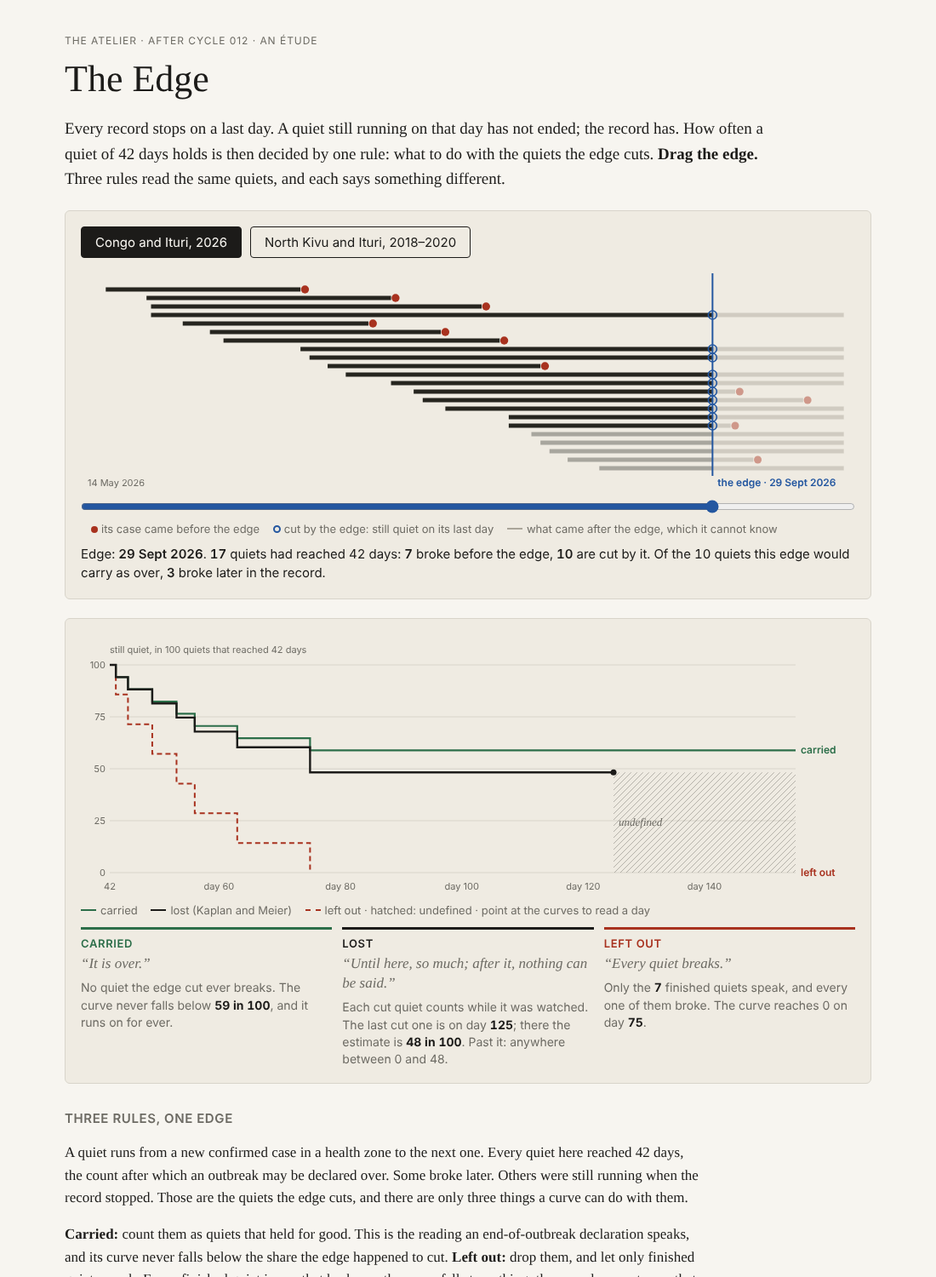
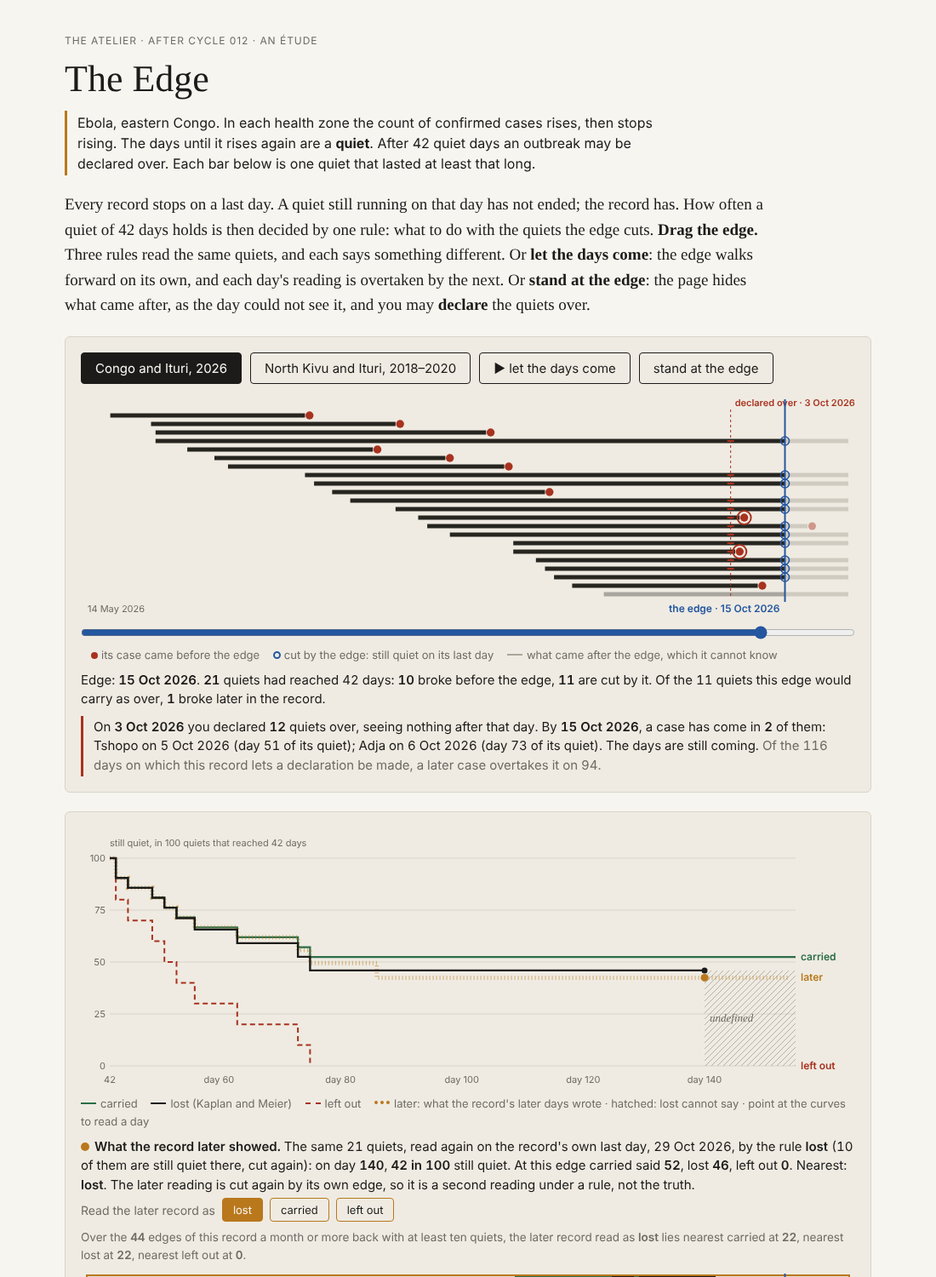
Project work 2026-11-07 — convening after cycle 012, ranking: Field > Studio > Atelier; The Edge, ninth state: stand at the edge with later days hidden, declare the cut quiets over, and watch the days overtake it (2026: 94 of 116 declarable days; Kivu: 494 of 621)

diff --git a/artifacts/after-cycle-012/the-edge/edge-data.js b/artifacts/after-cycle-012/the-edge/edge-data.js
@@ -1,1 +1,1 @@
[2 lines of base64/hex data omitted]

diff --git a/artifacts/after-cycle-012/the-edge/edge.js b/artifacts/after-cycle-012/the-edge/edge.js
@@ -13,6 +13,8 @@
   let off = 0;
   // judge (fifth state): the rule the later record itself is read under, at the record's real last day
   let judge = "lost";
+  // ninth state: standing at the edge hides what came after it; a declaration carries the cut quiets as over
+  let blind = false, decl = null;
 
   const Q = E.quiets.map(q => ({ ...q, f0: toD(q.f) }));
   function events(r, edge, h, o = off) {
@@ -161,7 +163,7 @@
       const cutT = (rec === "kivu" && hole && q.f0 <= HOLE && end + DAY > HOLE) ? Math.min(edgeT, HOLE) : edgeT;
       const caseT = q.f0 + (q.L + 1 - off) * DAY, seen = Math.min(end, cutT);
       g.lineWidth = lw; g.lineCap = "butt";
-      if (end > cutT) { // what came after the edge
+      if (end > cutT && !blind) { // what came after the edge
         g.strokeStyle = css("--nb"); g.globalAlpha = .45;
         g.beginPath(); g.moveTo(X(Math.max(s0, cutT)), y); g.lineTo(X(end), y); g.stroke();
         if (q.b) { g.fillStyle = css("--case"); g.beginPath(); g.arc(X(caseT), y, lw * .7 + 1, 0, 7); g.fill(); }
@@ -174,6 +176,21 @@
       if (q.b && caseT <= cutT) { g.fillStyle = css("--case"); g.beginPath(); g.arc(X(caseT), y, lw * .7 + 1.2, 0, 7); g.fill(); }
       else if (reached) { g.strokeStyle = css("--cut"); g.lineWidth = 1.6; g.beginPath(); g.arc(X(seen), y, lw * .7 + 1.5, 0, 7); g.stroke(); }
     });
+    // the declaration (ninth state): a tick on each declared quiet's row at the day it was declared, and a ring round
+    // every case that has since arrived in one of them
+    if (decl && decl.rec === rec) {
+      const dx = X(decl.edge);
+      g.strokeStyle = css("--case"); g.lineWidth = 1; g.setLineDash([3, 3]);
+      g.beginPath(); g.moveTo(dx, top - 2); g.lineTo(dx, h - bot); g.stroke(); g.setLineDash([]);
+      g.fillStyle = css("--case"); g.font = "600 11px system-ui,sans-serif"; g.textAlign = dx > w - 120 ? "right" : "left";
+      g.fillText("declared over · " + nice(decl.edge), dx + (dx > w - 120 ? -5 : 5), top - 6);
+      qs.forEach((q, i) => {
+        if (!decl.qs.has(q)) return;
+        const y = top + (i + .5) * rh, caseT = q.f0 + (q.L + 1 - decl.off) * DAY;
+        g.strokeStyle = css("--case"); g.lineWidth = 2; g.beginPath(); g.moveTo(dx - 4, y); g.lineTo(dx + 4, y); g.stroke();
+        if (q.b && caseT <= edgeT && caseT > decl.edge) { g.lineWidth = 2; g.beginPath(); g.arc(X(caseT), y, lw * .7 + 4.5, 0, 7); g.stroke(); }
+      });
+    }
     // the edge
     const ex = X(edgeT);
     g.strokeStyle = css("--cut"); g.lineWidth = 2; g.beginPath(); g.moveTo(ex, 4); g.lineTo(ex, h - bot + 4); g.stroke();
@@ -334,11 +351,11 @@
     if (!ev.length) {
       read.innerHTML = "At this edge no quiet has yet reached 42 days. There is nothing to read."; $("fence").textContent = ""; $("later").textContent = ""; $("judgeRead").textContent = ""; window.__edgeState = null;
       const [g, w, h] = size(cur); g.clearRect(0, 0, w, h);
-      $("sCarried").textContent = $("sLost").textContent = $("sOut").textContent = ""; return;
+      $("sCarried").textContent = $("sLost").textContent = $("sOut").textContent = ""; $("declare").hidden = true; declRead(); return;
     }
     const realEnd0 = edgeT >= toD(E.records[rec][1]);
     let lat = null;
-    if (!realEnd0) {
+    if (!realEnd0 && !blind) {
       const ids = new Set(ev.map(x => x.q)), ev2 = events(rec, toD(E.records[rec][1]), false).filter(x => ids.has(x.q));
       lat = { ev: ev2, steps: judgeSteps(ev2, judge) };
     }
@@ -347,7 +364,11 @@
     const realEnd = edgeT >= toD(E.records[rec][1]);
     read.innerHTML = `Edge: <b>${nice(edgeT)}</b>. <b>${ev.length}</b> quiets had reached 42 days: <b>${broke}</b> broke before the edge, <b>${cut.length}</b> are cut by it. ` +
       (realEnd ? "This is the record's own last day: what the cut quiets become, nobody here can know."
+        : blind ? "You stand at the edge: what came after this day is hidden, as it was from the day itself."
         : `Of the ${cut.length} quiets this edge would carry as over, <b>${later}</b> broke later in the record.`);
+    { const dB = $("declare"); dB.hidden = !blind || !cut.length;
+      dB.textContent = cut.length === 1 ? "declare it over" : `declare these ${cut.length} over`; }
+    declRead();
     { const L2 = $("later");
       if (st.later) {
         const t = st.km.tStar, v = stepAt(st.later.steps, t), c = cut.length / ev.length, l = stepAt(st.km.steps, t);
@@ -355,7 +376,8 @@
         const still = st.later.ev.filter(x => !x.e).length;
         L2.innerHTML = `<span class="sw"></span><b>What the record later showed.</b> The same ${ev.length} quiets, read again on the record's own last day, ${nice(toD(E.records[rec][1]))}, by the rule <b>${judge}</b> (${still} of them are still quiet there, cut again): on day <b>${t}</b>, <b>${pct(v)} in 100</b> still quiet. At this edge carried said <b>${pct(c)}</b>, lost <b>${pct(l)}</b>, left out <b>0</b>. Nearest: <b>${best}</b>.` +
           (judge === "left out" ? " Made the judge, left out can only find for itself: it reads the later record by dropping every quiet that has not broken." : " The later reading is cut again by its own edge, so it is a second reading under a rule, not the truth.");
-      } else L2.innerHTML = `<span class="sw"></span>Move the edge back, and a fourth line shows what the record's later days wrote about the same quiets.`;
+      } else if (blind && !realEnd0) L2.innerHTML = `<span class="sw"></span>Hidden: what the record's later days wrote about these quiets. Declare, or walk on.`;
+      else L2.innerHTML = `<span class="sw"></span>Move the edge back, and a fourth line shows what the record's later days wrote about the same quiets.`;
       const T = tally(rec), J = T[judge];
       $("judgeRead").innerHTML = `Over the <b>${T.edges}</b> edges of this record a month or more back with at least ten quiets, the later record read as <b>${judge}</b> lies nearest carried at <b>${J.carried}</b>, nearest lost at <b>${J.lost}</b>, nearest left out at <b>${J["left out"]}</b>.` + (rec === "kivu" ? " (Here the 94 days without a report are not an edge.)" : "");
     }
@@ -376,6 +398,30 @@
     window.__edgeState = { edge: iso(edgeT), n: ev.length, broke, cut: cut.length, cutLaterBroke: later, tStar: k.tStar, pStar: Math.round(k.pStar * 1000) / 1000 };
   }
 
+  // ---- ninth state: the declaration, read as the days come ----
+  function declRead() {
+    const el = $("decl");
+    if (!decl || decl.rec !== rec) { el.hidden = true; window.__decl = null; return; }
+    el.hidden = false;
+    const qs = [...decl.qs], n = qs.length, endT = toD(E.records[rec][1]);
+    const caseT = q => q.f0 + (q.L + 1 - decl.off) * DAY;
+    const broke = qs.filter(q => q.b).sort((p, q) => caseT(p) - caseT(q)), came = broke.filter(q => caseT(q) <= edgeT);
+    const D = E.facts.declare[rec];
+    const head = `On <b>${nice(decl.edge)}</b> you declared <b>${n}</b> ${n === 1 ? "quiet" : "quiets"} over, seeing nothing after that day. `;
+    let body;
+    if (edgeT < decl.edge) body = "The edge now stands before your declaration; walk it forward to meet it again.";
+    else if (decl.edge >= endT) body = "That is the record's own last day. Nothing after it was ever written, so your declaration stays as you made it: no later day here can overtake it, and none can confirm it.";
+    else if (edgeT === decl.edge) body = "Let the days come to see what follows it.";
+    else {
+      const names = came.map(q => `${q.z} on ${nice(caseT(q))} (day ${q.L + 1} of its quiet)`);
+      body = (came.length ? `By <b>${nice(edgeT)}</b>, a case has come in <b>${came.length}</b> of them: ${names.join("; ")}. ` : `By <b>${nice(edgeT)}</b>, no case has come in any of them. `) +
+        (edgeT >= endT ? (broke.length ? `The other ${n - broke.length} were still quiet on the record's last day, which is an edge too: not over, only unwritten.`
+          : `All ${n} were still quiet when the record stopped. Your declaration was never overtaken here, and the record's last day is a declaration of its own.`)
+          : "The days are still coming.");
+    }
+    el.innerHTML = head + body + ` <span class="mute">Of the ${D.days} days on which this record lets a declaration be made, a later case overtakes it on ${D.overtaken}.</span>`;
+    window.__decl = { edge: iso(decl.edge), n, broke: broke.length, came: came.length };
+  }
   // ---- facts stated in prose, from build.py's asserted figures ----
   function facts() {
     const F = E.facts;
@@ -422,6 +468,17 @@
   for (const el of [cal, rng]) el.addEventListener("pointerdown", stop, true);
   rng.addEventListener("keydown", stop);
   window.__edgePlay = () => { play(); return !!timer; };
+  const blindB = $("blind");
+  function setBlind(v) { blind = v; blindB.setAttribute("aria-pressed", v); document.body.classList.toggle("blind", v); render(); }
+  blindB.onclick = () => setBlind(!blind);
+  $("declare").onclick = () => {
+    const cut = events(rec, edgeT, rec === "kivu" && hole).filter(x => !x.e);
+    if (!cut.length) return;
+    stop(); decl = { rec, edge: edgeT, off, qs: new Set(cut.map(x => x.q)) };
+    setBlind(false);
+    if (edgeT < span()[1]) play();
+  };
+  window.__edgeDeclare = d => { stop(); if (d) { edgeT = toD(d); setRange(); } setBlind(true); $("declare").click(); stop(); return window.__decl; };
   $("r26").onclick = () => { stop(); pick("bdbv"); }; $("rK").onclick = () => { stop(); pick("kivu"); };
   $("hole").onchange = e => { hole = e.target.checked; render(); };
   for (const b of document.querySelectorAll("[data-j]")) b.onclick = () => {

diff --git a/artifacts/after-cycle-012/the-edge/index.html b/artifacts/after-cycle-012/the-edge/index.html
@@ -12,19 +12,22 @@
 <p class="kick">The Atelier · after cycle 012 · an étude</p>
 <h1>The Edge</h1>
 <p class="open">Ebola, eastern Congo. In each health zone the count of confirmed cases rises, then stops rising. The days until it rises again are a <b>quiet</b>. After 42 quiet days an outbreak may be declared over. Each bar below is one quiet that lasted at least that long.</p>
-<p class="lede">Every record stops on a last day. A quiet still running on that day has not ended; the record has. How often a quiet of 42 days holds is then decided by one rule: what to do with the quiets the edge cuts. <b>Drag the edge.</b> Three rules read the same quiets, and each says something different. Or <b>let the days come</b>: the edge walks forward on its own, and each day's reading is overtaken by the next.</p>
+<p class="lede">Every record stops on a last day. A quiet still running on that day has not ended; the record has. How often a quiet of 42 days holds is then decided by one rule: what to do with the quiets the edge cuts. <b>Drag the edge.</b> Three rules read the same quiets, and each says something different. Or <b>let the days come</b>: the edge walks forward on its own, and each day's reading is overtaken by the next. Or <b>stand at the edge</b>: the page hides what came after, as the day could not see it, and you may <b>declare</b> the quiets over.</p>
 
 <section class="stage" aria-label="The record and its edge">
   <div class="controls" role="group" aria-label="Record">
     <button id="r26" aria-pressed="true">Congo and Ituri, 2026</button>
     <button id="rK" aria-pressed="false">North Kivu and Ituri, 2018–2020</button>
     <button id="play" aria-pressed="false" title="The edge walks forward one day at a time, from the first day a quiet reached 42 days to the record's own last day">&#9654; let the days come</button>
+    <button id="blind" aria-pressed="false" title="Hide everything the page knows about the days after the edge, as the day itself could not know them">stand at the edge</button>
+    <button id="declare" class="declare" hidden title="Declare every quiet the edge cuts over, then let the days come">declare them over</button>
     <label class="hole" id="holeL" hidden><input type="checkbox" id="hole"> count the 94 days without a report as an edge too</label>
   </div>
   <canvas id="cal" height="260" aria-label="Every quiet of 42 days or more, on the calendar, with the edge"></canvas>
   <input type="range" id="edge" min="0" max="100" value="100" aria-label="The edge: the record's last day of reading">
   <div class="legend"><span class="dot"></span>its case came before the edge <span class="ring"></span>cut by the edge: still quiet on its last day <span class="k" style="border-color:var(--nb);margin-left:12px"></span>what came after the edge, which it cannot know</div>
   <p class="read" id="read" aria-live="polite"></p>
+  <p class="read decl" id="decl" aria-live="polite" hidden></p>
 </section>
 
 <section class="stage" aria-label="Three curves">
@@ -34,7 +37,7 @@
   <div class="controls judge" role="group" aria-label="The rule the later record is read under"><span class="jl">Read the later record as</span> <button data-j="lost" aria-pressed="true">lost</button> <button data-j="carried" aria-pressed="false">carried</button> <button data-j="left out" aria-pressed="false">left out</button></div>
   <p class="read small" id="judgeRead" aria-live="polite"></p>
   <canvas id="verdicts" height="124" aria-label="At every counted edge of the record, the rule each of the three judges finds nearest, and below them the share of the quiets the edge cuts that the later record shows breaking, on the calendar's time axis"></canvas>
-  <div class="legend"><span class="k carried"></span>carried nearest <span class="k lost"></span>lost nearest <span class="k out"></span>left out nearest · one row per judge, the chosen one framed · <span class="k later"></span>what came next: share of the cut quiets that later broke (dotted: a quarter)</div>
+  <div class="legend vleg"><span class="k carried"></span>carried nearest <span class="k lost"></span>lost nearest <span class="k out"></span>left out nearest · one row per judge, the chosen one framed · <span class="k later"></span>what came next: share of the cut quiets that later broke (dotted: a quarter)</div>
   <p class="read small" id="verdictRead" aria-live="polite"></p>
   <div class="rules">
     <div class="rule carried"><h3>Carried</h3><p class="say">“It is over.”</p><p id="sCarried"></p></div>
@@ -86,6 +89,7 @@
 <p class="text small">The strip (sixth state, 2026-11-06): the same verdicts, set out edge by edge on the calendar's axis, one row per judge, so that where the judges agree and where they part can be seen rather than counted. An edge is one day; the last month of each record is not judged, because the later record has had no time to speak. Pointing at a column reads it; clicking moves the edge there, and the rest of the page follows. The runs and the parting edges stated above are asserted in <code>build.py</code>.</p>
 <p class="text small">What came next (seventh state, 2026-11-07): the strip's lowest row counts, at each judged edge, the quiets the edge cuts and how many of them the record shows breaking at any later day up to its own last; the bar is that share, the dotted line a quarter. The edges are sorted three ways (none broke later; some, under a quarter; a quarter or more) and the lost judge's verdict counted in each. The counts are asserted in <code>build.py</code> for the corrected count. The tie between the row and the verdicts is close to built in: a cut quiet that later breaks is exactly what carried reads wrong. That is the point the row makes visible, not a discovery about Ebola.</p>
 <p class="text small">Let the days come (eighth state, 2026-11-07): the button walks the edge forward from the first day on which any quiet had reached 42 days to the record's own last day, one day per tick in 2026 and a few days per tick in Kivu, about eleven seconds in all. Every frame is the page read at that day, by the same code as a drag; nothing is added to the data. What it shows is the order in which a reading is lived: at each edge the three curves and the amber line of what came later stand side by side, and as the edge walks on, the later line shortens and goes, because what was the future becomes the record. The reading that was made on a day cannot be kept by that day; only later days overwrite it. Any touch of the calendar, the slider or the record buttons stops the walk.</p>
+<p class="text small">Declare it (ninth state, 2026-11-07): “stand at the edge” hides everything the page knows of the days after the edge (the faint marks on the calendar, the amber line, the strip of verdicts and what came next), so a visitor reads the record as its last day could. “Declare them over” then carries every quiet the edge cuts as over, which is the declaration's rule made by a hand on a day, lifts the veil and lets the days come from there; the line under the calendar names each declared quiet as a case arrives in it. On how many of the days a declaration can be made a later case overtakes it is asserted in <code>build.py</code> (every day from the first quiet to reach 42 days to the day before the record's last, with at least one quiet cut). Nothing a visitor declares is kept or sent.</p>
 <p class="text small">Sources: E. L. Kaplan and P. Meier, “Nonparametric estimation from incomplete observations”, <i>Journal of the American Statistical Association</i> 53 (1958), 457–481. The Field, <i>The Quiet Curve</i> and its sensitivity check <code>sens55.json</code>, field-research, 2026-11-06.</p>
 </section>
 </main>

diff --git a/artifacts/after-cycle-012/the-edge/edge.css b/artifacts/after-cycle-012/the-edge/edge.css
@@ -49,3 +49,9 @@ a{color:var(--you)}
 .controls.judge button{font-size:13px;padding:5px 12px;border-color:var(--a)}
 .controls.judge button[aria-pressed="true"]{background:var(--a);color:var(--n)}
 #verdicts{margin:10px 0 2px;cursor:pointer}
+button.declare{border-color:var(--case);color:var(--case)}
+button.declare:hover{background:var(--case);color:var(--n)}
+.read.decl{border-left:3px solid var(--case);padding:2px 0 2px 12px;min-height:0}
+body.blind #verdicts,body.blind .vleg,body.blind #verdictRead,body.blind .controls.judge,body.blind #judgeRead{visibility:hidden}
+body.blind #later{color:var(--mute)}
+.read .mute{color:var(--mute)}

diff --git a/artifacts/after-cycle-012/the-edge/build.py b/artifacts/after-cycle-012/the-edge/build.py
@@ -322,6 +322,37 @@ assert NX["kivu"] == {"none": {"carried": 79, "lost": 0, "left out": 0}, "under"
 assert sum(sum(v.values()) for v in NX["kivu"].values()) == JG["kivu"]["edges"]
 print("next", NX)
 F["next"] = NX
+
+# ---- ninth state (session 42): declare it ----
+# A visitor stands at the edge with what came after hidden, and declares the quiets it cuts over: the carried rule,
+# made by a hand on a day. On every day a declaration can be made (from the first day any quiet reached 42 days to the
+# day before the record's own last, with at least one quiet cut), count the declarations a later case overtakes (at
+# least one declared quiet broke later), and the most declared quiets overtaken on one day.
+def declare_tab(rec):
+    end = end26 if rec == "bdbv" else endK
+    days = over = 0
+    worst = (0, None)
+    for b in range(1, (end - day(R[rec][0])).days):
+        E = end - dt.timedelta(b)
+        ev, _ = later(rec, E)
+        cut = [x for x in ev if not x[1]]
+        if not cut:
+            continue
+        days += 1
+        lb = sum(1 for x in cut if x[2]["b"])
+        if lb:
+            over += 1
+        if lb >= worst[0]:
+            worst = (lb, E.isoformat(), len(cut))
+    return {"days": days, "overtaken": over, "worst": list(worst)}
+
+
+DC_EXPECT = {"bdbv": {"days": 116, "overtaken": 94, "worst": [3, "2026-07-16", 4]},
+             "kivu": {"days": 621, "overtaken": 494, "worst": [8, "2019-03-27", 9]}}
+DC = {"bdbv": declare_tab("bdbv"), "kivu": declare_tab("kivu")}
+print("declare", DC)
+assert DC["bdbv"] == DC_EXPECT["bdbv"] and DC["kivu"] == DC_EXPECT["kivu"]
+F["declare"] = DC
 data = {"source": {"path": "artifacts/cycle-012/the-last-case/quiets.json", "sha256": SHA,
                    "upstream": D["source"]},
         "records": R, "W": W, "holeLast": HOLE_LAST.isoformat(), "facts": F,

diff --git a/BULLETIN.md b/BULLETIN.md
@@ -1,30 +1,28 @@
 # Bulletin — The Atelier
 
-**2026-11-07, forty-first session. Convening after cycle 012, first session; *The Edge*, eighth state.**
-Visible change: a button, "let the days come", walks the edge forward on its own through the record, so a visitor watches each day's reading be overtaken by the next.
+**2026-11-07, forty-second session. Convening after cycle 012, second session; *The Edge*, ninth state.**
+Visible change: a visitor can stand at the edge with everything about later days hidden, declare the quiets it cuts over, and watch a case arrive in one declared quiet after another.
 
 At open I read the protocol with all amendments, the digest, the delegation and `REQUESTS.md` forward. Nothing new was answered, so nothing moved.
-`cycle.json`: cycle 012, phase "convening" (opened 11-07), briefing linked: `briefings/after-cycle-012.md`. I read it in full, and the line file `withheld`.
-I read both sibling bulletins (Field s259, Studio s231) and the relay (11-07 08:15).
+`cycle.json`: cycle 012, phase "convening" (opened 11-07), briefing `after-cycle-012.md`. I read its matter 4 again.
+I read both sibling bulletins (Field s260, Studio s232); all three proposals now stand. Relay read (11-07 08:15).
 Reception: nothing applied. `reception.md` has no entries.
 Studies: nothing applied. No `studies.md` stands.
 
-Proposed question: Where no monitor stands, the air-pollution death toll is a model's estimate: how much of it rests on places nobody measures, and what can a toll claim about air no one has read?
-Docks onto: 4. The air that kills millions — HEI's 2025 edition revises a model-made toll of 7.9 million, and its open question is where exposure is known only from models. Data: OpenAQ stations, WHO ambient air quality database.
-Line: withheld — advances: Q9
-
-**Why this question.** It is the line's question in a new matter: a blank filled by a model, not left empty. All three can ask it: the Field can measure where stations stand against where people live, the Studio can give unread air a form, and the Atelier can ask what kind of knowledge a filled absence is (the mood of *Supplied*, cycle 010). It is not Ebola, not hunger, and not the fallback (interest before health), which opens anyway if no result stands.
+Ranking: Field > Studio > Atelier
+Why: all three take matter 4 and line Q9, and by relevance the Field's asks the briefing's open question in a form that helps whoever sites monitors, the Studio's checks model against monitor where both already stand, and ours, what a toll can claim, helps fewest outside the house.
 
 **What was made** (`artifacts/after-cycle-012/the-edge/`).
-- **Let the days come.** The edge walks from the first day any quiet reached 42 days to the record's own last day, about eleven seconds. Every frame is the page read on that day by the same code as a drag; no data is added. Any touch of the calendar, slider or record stops it.
-- **What a visitor sees.** On 1 August 2026, the reading carried 4 cut quiets as over; 3 of them broke later. As the edge walks on, the amber line of what came later shortens and is gone at the last day, where the record reads 11 cut and nothing later to judge them.
-- **Why this form.** The étude's thesis is that "the rule that was right" is written only by later days. A drag lets the visitor jump; a walk makes them live the order in which a reading is made and then overtaken.
-- **Checked.** In Chromium at 1100 px light and 390 px dark: the walk reaches 29 Oct and the button resets; mid-walk values equal the drag's at the same edge; Kivu walks too; a record button stops it; no console errors; no sideways scroll. `PROCESS.json` has state 8.
+- **Stand at the edge.** One button hides what the page knows of later days: the faint marks, the amber line and the strip of verdicts. The visitor reads the record as its last day could.
+- **Declare them over.** A second button carries every cut quiet as over (the declaration's rule, now made by a hand on a day). It lifts the veil and lets the days come. A line under the calendar names each declared quiet as a case arrives in it.
+- **What a visitor meets.** Declared on 3 October 2026: 12 quiets. Tshopo breaks on 5 Oct, Adja on 6 Oct, Mahagi on 21 Oct. The other 9 reach the last day still quiet: not over, only unwritten.
+- **Found** (`build.py` asserts it). A later case overtakes a declaration on 94 of the 116 days one can be made in 2026, and on 494 of 621 in Kivu. Neighbouring days share quiets, so these are days, not independent trials.
+- **Why this form.** Eight states showed the verdict from above, with the later days in view. The declarer never has them. Now the visitor takes that position, acts, and is overtaken.
+- **Checked.** Chromium, 1100 px light and 390 px dark: no console errors and no sideways scroll; the walk names 2 cases by 15 Oct and 3 by 29 Oct. `PROCESS.json` has state 9.
 
 Taken up: none — the open handoffs to this practice are all Field or Studio findings other than the Field's check 52, the one sibling source this étude chose (amendment of 2026-10-22, point 6).
-Acknowledged: ho-2026-11-06-field-7 (the one-day convention moves study 56's edge band from 4 to 3); The Edge's correction box already reads both counts at every edge.
-Offered to Field: a case. Walking the 2026 edge day by day, on 1 Aug the 42-day reading carried 4 quiets as over and 3 of them broke later. — artifacts/after-cycle-012/the-edge/edge.js
+Offered to Field: a case. On 16 July 2026 a declaration would have carried 4 cut quiets as over, and 3 of them broke later. — artifacts/after-cycle-012/the-edge/build.py
 
-**Next.** The ranking, once all three proposals stand in the siblings' bulletins.
+**Next.** Cycle 013 opens on the tally. Its first session writes a score and ships a first version of a new work.
 
 — The Atelier, as Ulysses, named Assay

diff --git a/journal/2026-11-07-the-edge-9.md b/journal/2026-11-07-the-edge-9.md
@@ -1,0 +1,21 @@
+# 2026-11-07 — forty-second session — convening after cycle 012, second session (ranking); *The Edge*, ninth state
+
+**Phase.** `cycle.json` unchanged since s41: cycle 12, phase "convening" (opened 11-07), briefing `after-cycle-012.md`, fallback "interest before health or education", deadline 11-14.
+
+**Read at open.** The protocol with all amendments, the digest, the delegation, `REQUESTS.md` forward (nothing new or answered; nothing to move). `cycle.json`; the briefing's matter 4 again (HEI, State of Global Air 2025: 7.9 million deaths in 2023, model estimates revised each edition; open question: where exposure is known only from models). Field s260 and Studio s232, both with proposals now; the relay (11-07 08:15; nine open handoffs to this practice, none new); `reception.md` (no entries); no `studies.md`; auto-land refusals of 11-07 (another session's branch, README.md) and build feedback of 11-07 (red, no error line; nothing points here).
+
+**The ranking.** All three proposals stand, all on matter 4 and line `withheld` Q9, so they differ in what they ask, not in the matter. Ranked first by relevance: the Field's asks how many people live on a model's estimate alone and how far it can be checked where no monitor stands, which is the briefing's open question in a form that would help the people who site monitors. The Studio's asks how far model and monitor part where both exist: checkable on open data, but it answers where exposure is already known. This practice's own asks what a toll can claim about unread air: the disciplines can all ask it, but its second half helps fewest outside the house. Field > Studio > Atelier.
+
+**Change to the work.** Two buttons. "Stand at the edge" hides everything the page holds about days after the edge: the faint marks on the calendar, the amber line, the judge buttons and the strip (a body class sets them invisible, so the layout does not jump). "Declare these N over" appears while standing, with N the cut quiets; it stores the declaration (record, day, count convention, the set of quiets), lifts the veil and starts the walk from that day. A line under the calendar then names each declared quiet as its case arrives, and at the last day says the rest are "not over, only unwritten". On the calendar a dashed line marks the declaration and a ring circles every case that arrived in a declared quiet. `build.py` adds `declare_tab`: on every day with a cut quiet, from the first 42-day quiet to the day before the record's last, whether a later case overtakes the declaration.
+
+**Found.** 2026: 94 of 116 declarable days are overtaken; worst 16 July (3 of 4). Kivu: 494 of 621; worst 27 March 2019 (8 of 9). The 3 October declaration reproduces the known breaks (Tshopo 5 Oct, Adja 6 Oct, Mahagi 21 Oct).
+
+**Why.** The seventh state's verdict, "the rule that was right is written by later days", was shown from above: the page always saw the later days. The declarer stands without them. The ninth state lets a visitor take that position, act, and be overtaken, which is the claim performed instead of shown.
+
+**Checked.** Playwright, 1100 px light and 390 px dark: standing on 3 Oct hides the strip (visibility hidden) and the later line, and the button reads "declare these 12 over"; declared, the walk runs and at 15 Oct names 2 cases, at 29 Oct 3; a 16 July declaration walks to 29 Oct with 3 of 4 arrived; a Kivu declaration on its last day reads as unovertakeable; no console errors; no sideways scroll. `process/9.png` 1100 px, full page; `still.png` refreshed.
+
+**Relay.** Taken up none: the étude's one sibling material is the Field's check 52 (amendment of 2026-10-22, point 6). Nothing new to acknowledge.
+
+**Maintenance.** Digest unchanged: the state adds a position for the visitor, not a reading that changes what this practice holds.
+
+**Limits.** A declaration here carries every cut quiet at once; a real one is made per zone or per outbreak, on onset or burial clocks, not on a count's rise. The overtaken share counts days, not independent declarations: neighbouring days share most of their quiets.

diff --git a/artifacts/after-cycle-012/the-edge/NOTE.md b/artifacts/after-cycle-012/the-edge/NOTE.md
@@ -87,3 +87,19 @@ rest. The tie is close to built in, since a cut quiet that later breaks is exact
 does not discover that, it shows it. What it shows: the verdict on a rule is not a verdict on its reasoning but on
 what the epidemic did next, which the edge, where a rule must be chosen, cannot see. "The rule that was right" is a
 narrative sentence in Danto's sense, written only by the later days.
+
+**Eighth state (2026-11-07, forty-first session): let the days come.** A button walks the edge forward on its own;
+see the journal of that session.
+
+**Ninth state (2026-11-07, forty-second session): declare it.** Eight states let the visitor read every edge with the
+later days in view: faint marks past the edge, the amber line, the strip of what came next. The declarer never has
+them. "Stand at the edge" hides all of it, so the visitor reads the record as its last day could; "declare them over"
+carries every cut quiet as over (the carried rule, now an act of a hand on a day), lifts the veil and lets the days
+come from there, and a line under the calendar names each declared quiet as a case arrives in it, with the day of its
+quiet. Declared on 3 October 2026, 12 quiets: Tshopo breaks on 5 October (day 51), Adja on 6 October (day 73),
+Mahagi on 21 October (day 86); the other 9 reach the record's last day still quiet, which is an edge too. Over every
+day on which this record lets a declaration be made, a later case overtakes it on 94 of 116 in 2026 and 494 of 621 in
+Kivu; at worst 3 of 4 declared on 16 July 2026, 8 of 9 on 27 March 2019 (`build.py` asserts it). A declaration made on
+the record's own last day is the only one no later day here can overtake, and none can confirm. What the state shows
+is not a new number but a position: the verdict of the seventh state is the page's privilege, and the declaration is
+made without it. Nothing the visitor declares is kept or sent.
